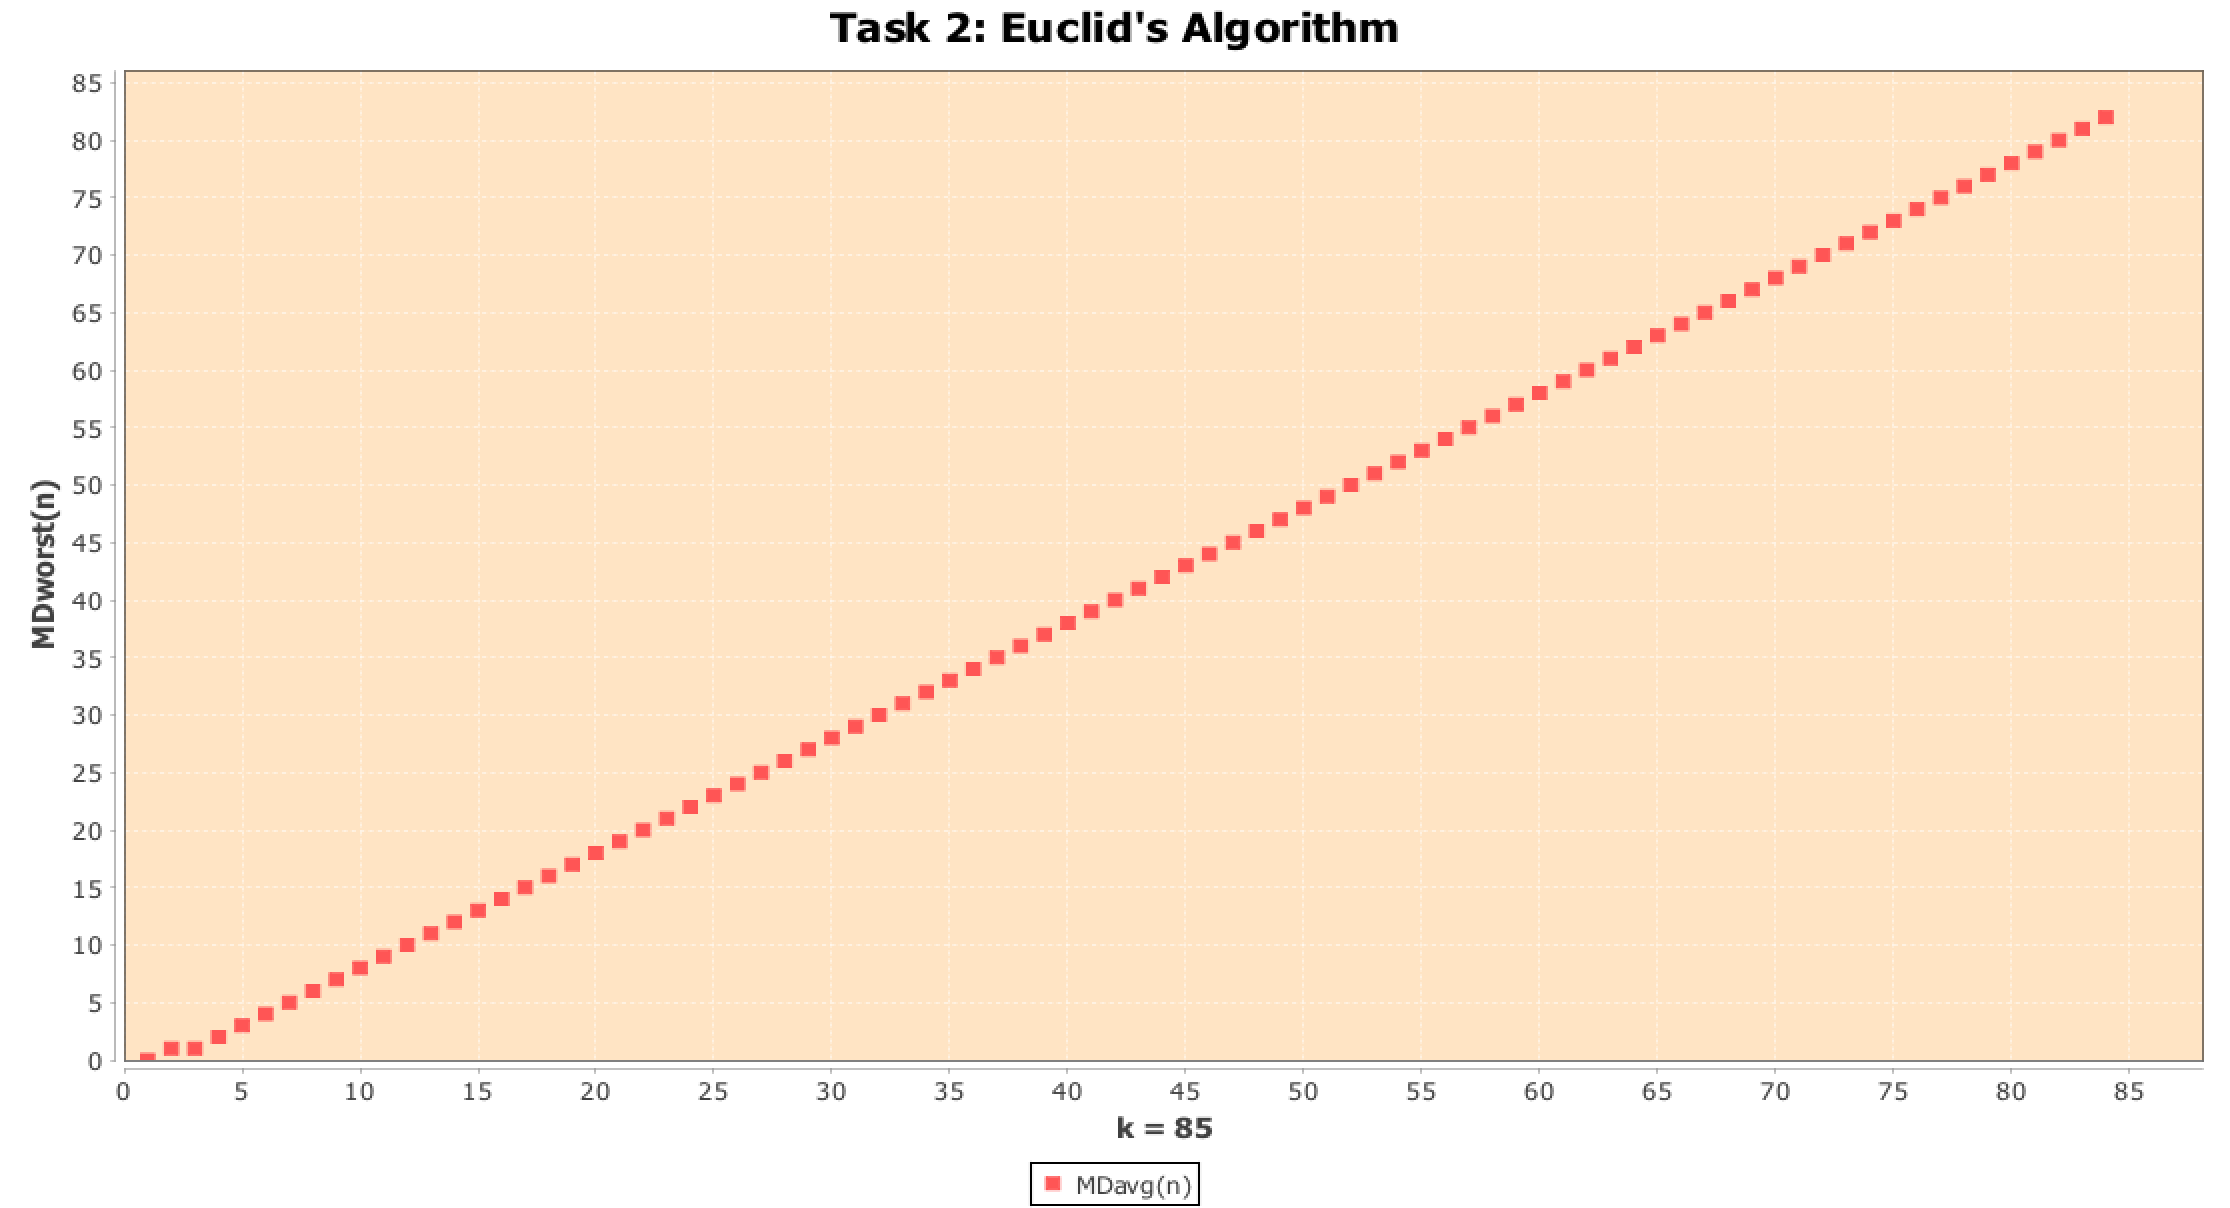
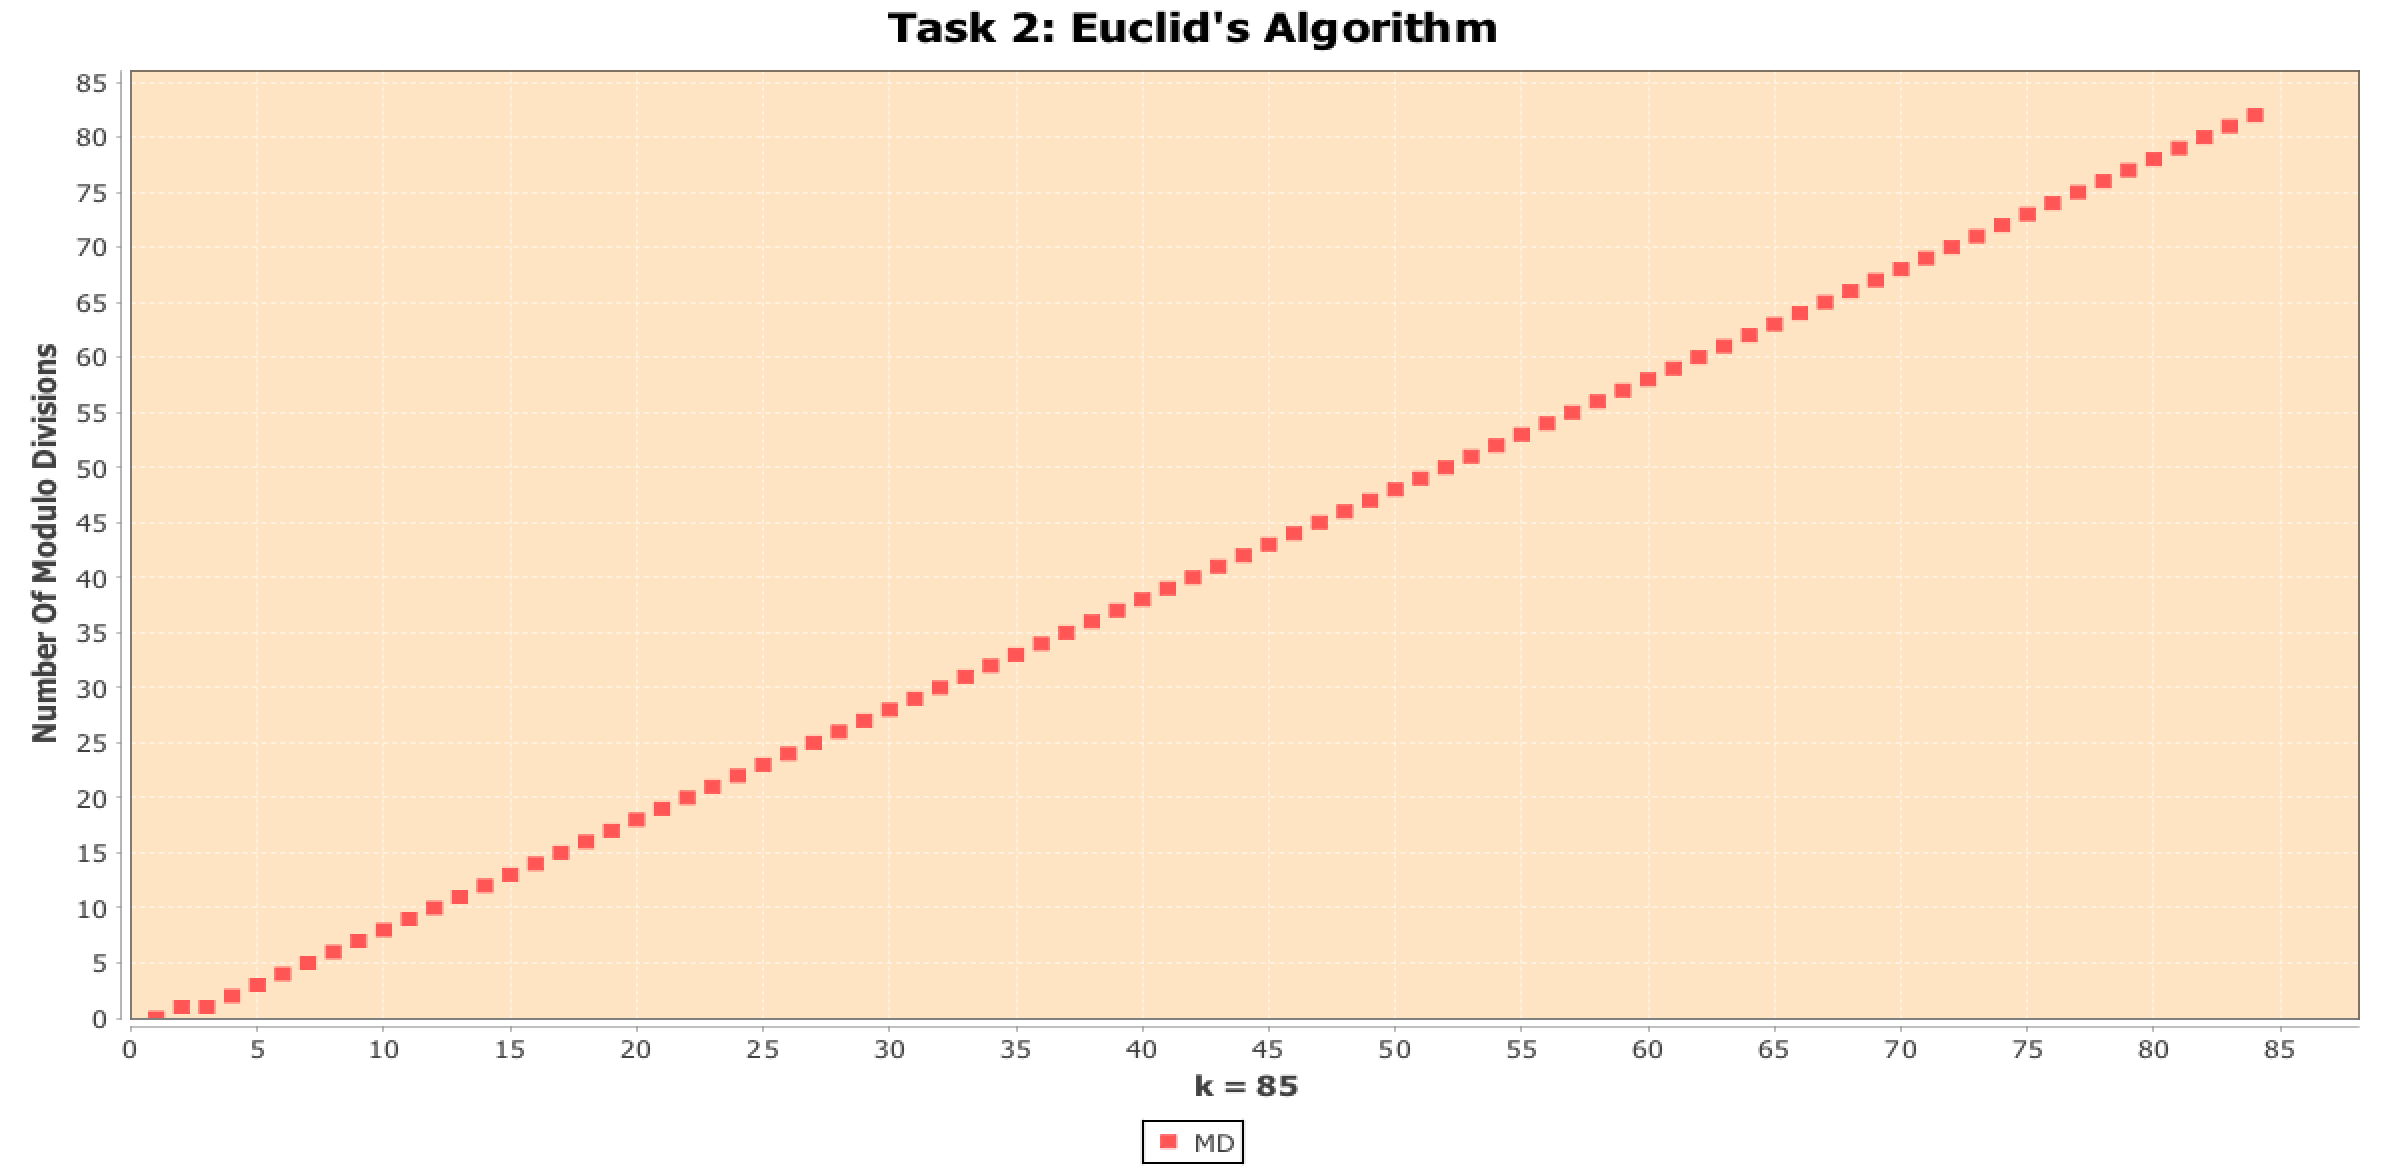
fixing task 2 y axis

diff --git a/src/com/modes/AbstractMode.java b/src/com/modes/AbstractMode.java
@@ -12,6 +12,7 @@ abstract class AbstractMode {
 	protected static String CIC_ALGO = "Consecutive Integer Check Algorithm";
 	protected static String SIEVE_ALGO = "Sieve Of Eratosthenes Algorithm";
 
+	protected static String MD = "MD";
 	protected static String MD_AVG_N = "MDavg(n)";
 	protected static String MD_WORST_N = "MDworst(n)";
 	protected static String D_AVG_N = "Davg(n)";
@@ -26,6 +27,7 @@ abstract class AbstractMode {
 	protected static String TASK_3 = "Task 3";
 	protected static String THETA_G_N = "\u03B8(g)";
 	protected static String NUM_COMP_COMMON = "Number of Comparisions";
+	protected static String NUM_MOD_DIVISIONS = "Number Of Modulo Divisions";
 
 	protected static Euclids euclids = new Euclids();
 	protected static ConsecutiveIntegerCheck cic = new ConsecutiveIntegerCheck();

diff --git a/src/com/modes/ScatterPlotMode.java b/src/com/modes/ScatterPlotMode.java
@@ -52,7 +52,7 @@ public class ScatterPlotMode extends AbstractMode {
 		dataset.addSeries(getWorstModDivisions(k));
 		
 		String title = TASK_2 + ": " + EUCLIDS_ALGO;
-		generateScatterPlot(dataset, title, K_EQUALS_STR + k, MD_WORST_N);
+		generateScatterPlot(dataset, title, K_EQUALS_STR + k, NUM_MOD_DIVISIONS);
 	}
 
 	protected void runTask3() {
@@ -103,7 +103,7 @@ public class ScatterPlotMode extends AbstractMode {
 	}
 
 	private XYSeries getWorstModDivisions(Integer k) {
-		XYSeries series = new XYSeries(MD_AVG_N);
+		XYSeries series = new XYSeries(MD);
 		for (int i = 1; i < k; i++) {
 			BigInteger currentFib = fibonacci.getNthElement(i);
 			BigInteger nextFib = fibonacci.getNthElement(i+1);
